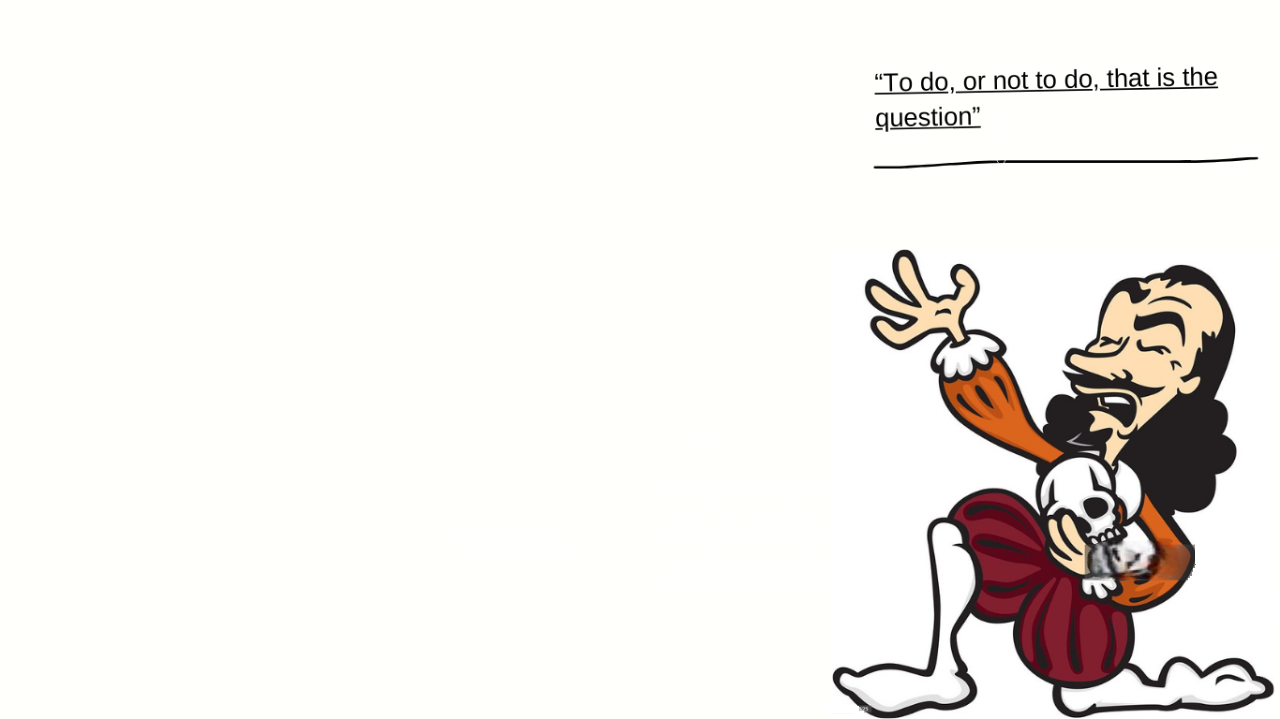
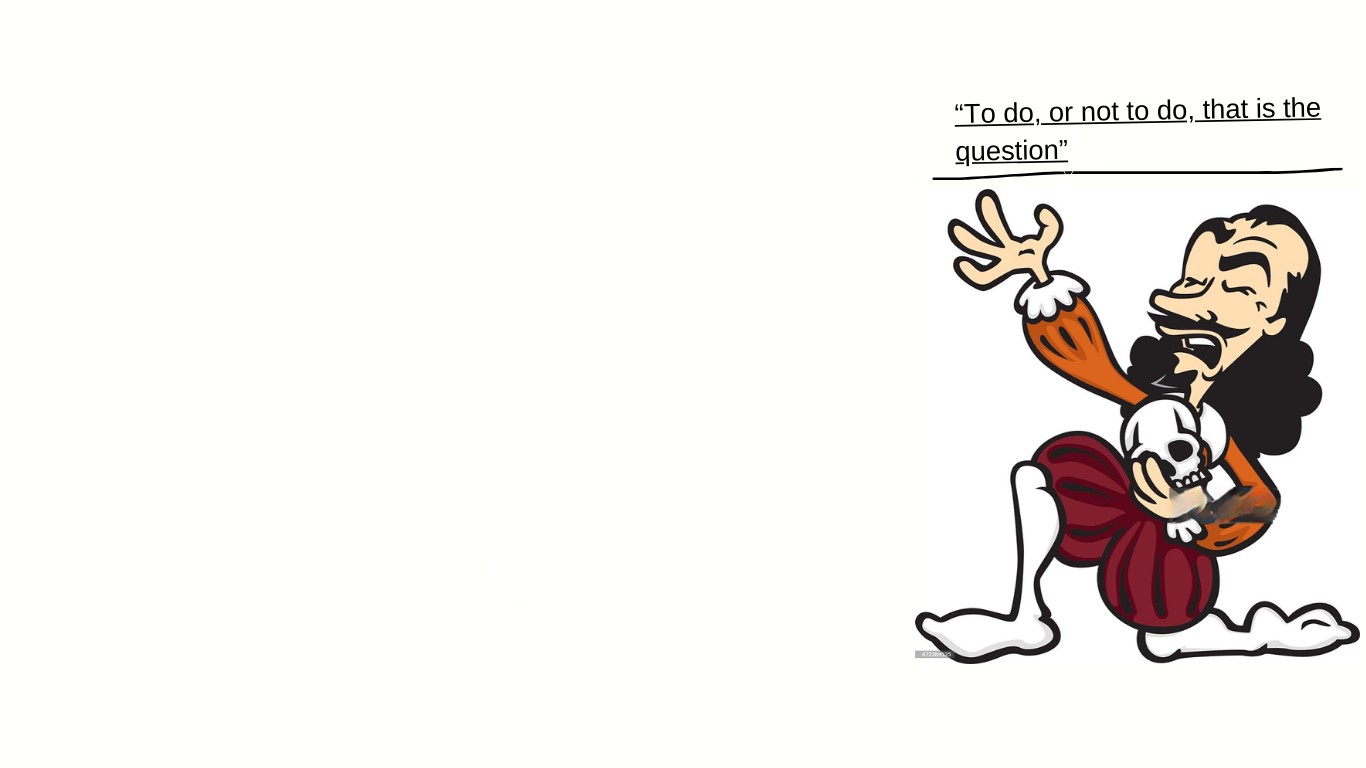
styling edits

Changed region(s): [[0.625, 0.2448, 1.0, 1.0], [0.6875, 0.0918, 0.9688, 0.2142]]

diff --git a/src/index.css b/src/index.css
@@ -1,20 +1,51 @@
 body {
-  background-image: url('imgs/shakespeare.png');
-  background-size: cover;
-  background-color: #f0f0f0;
-  color: #ed5544; /* Single text color */
   font-family: 'Roboto', sans-serif;
+  color: #ed5544;
+  margin: 0;
+  padding: 0;
+  
+}
+
+.container {
+  display: flex; 
+  justify-content: space-between; 
+  align-items: flex-start; 
+  width: 80%; 
+  margin: 20px auto; 
+}
+
+.todo-section {
+  flex: 1; 
+  padding: 10px;
+  background-color: rgba(255, 255, 255, 0.9); 
+  border-radius: 10px; 
+}
+
+.image-section {
+  flex: 0.5; 
   display: flex;
-  justify-content: center;
-  align-items: center;
-  font-size: larger;
-  padding: 50px;
+  justify-content: center; 
+  align-items: center; 
+  padding: 20px;
+}
+
+.image-section img {
+  max-width: 100%; 
+  height: auto; 
+  border-radius: 10px;
+}
+
+.button-container {
+  display: flex;
+  justify-content: flex-end; /* Butonları sağa hizalar */
+  gap: 10px;
+  margin-top: 20px;
 }
 
 h1 {
   color: #ff5722;
-  font-size: 2rem;
-  margin: 20px;
+  font-size: 2.5rem;
+  margin: 20px 0;
   font-family: fantasy;
 }
 
@@ -28,19 +59,40 @@ h1 {
 button {
   background-color: #ee8175;
   color: white;
-  padding: 3px 20px;
+  padding: 10px 20px;
   border: none;
   border-radius: 20px;
   cursor: pointer;
+  font-size: 1rem;
 }
 
-/* Responsive design */
+.footer {
+  
+  color: rgb(143, 117, 117);
+  text-align: center;
+  padding: 10px; 
+  
+  width: 100%;
+}
+
+.footer p {
+  margin: 0; /* Removes default margin */
+}
+
 @media only screen and (max-width: 600px) {
+  .container {
+    flex-direction: column; 
+  }
+
+  .image-section {
+    margin-top: 20px; 
+  }
+
   h1 {
-    font-size: 1.5rem; /* Reduced font size for small screens */
+    font-size: 1.5rem; 
   }
 
   .inputField {
-    width: 100%;
+    width: 100%; 
   }
 }

diff --git a/src/App.jsx b/src/App.jsx
@@ -75,19 +75,31 @@ function App() {
         <Route 
           path="/" 
           element={
-            <div>
-              <h1>Todo List</h1>
-              <button onClick={() => setSortAsc(!sortAsc)}>
-                Sort {sortAsc ? 'Descending' : 'Ascending'}
-              </button>
-              <AddTodoForm onAddTodo={addTodo} />
-              {isLoading ? <p>Loading...</p> : <TodoList todoList={todoList} onRemoveTodo={removeTodo} />}
+            <div className="container">
+              <section className="todo-section">
+                <h1>Todo List</h1>
+                <div className="button-container">
+                  <button onClick={() => setSortAsc(!sortAsc)}>
+                    Sort {sortAsc ? 'Descending' : 'Ascending'}
+                  </button>
+                </div>
+                <AddTodoForm onAddTodo={addTodo} />
+                {isLoading ? <p>Loading...</p> : <TodoList todoList={todoList} onRemoveTodo={removeTodo} />}
+              </section>
+              <section className="image-section">
+              
+                <img src="/src/imgs/shakespeare4.png" alt="shakespeare" />
+              </section>
             </div>
           }
         />
         <Route path="/new" element={<h1>New Todo List</h1>} />
       </Routes>
+      <footer className="footer">
+        <p>&copy; 2024 Murat Simsek TodoList Project</p>
+      </footer>
     </BrowserRouter>
+    
   );
 }
 

diff --git a/src/components/TodoListItem.module.css b/src/components/TodoListItem.module.css
@@ -1,0 +1,20 @@
+.ListItem {
+    display: flex;
+    justify-content: space-between; 
+    align-items: center; 
+    padding: 10px;
+    border-bottom: 1px solid #ccc; 
+  }
+  
+  button {
+    margin-left: auto; 
+    background-color: #f00; 
+    border: none;
+    padding: 5px 10px;
+    cursor: pointer;
+  }
+  
+  button:hover {
+    background-color: #c00; 
+  }
+  

diff --git a/src/components/TodoList.jsx b/src/components/TodoList.jsx
@@ -2,6 +2,7 @@
 import React from 'react';
 import TodolistItem from './TodoListItem';
 import PropTypes from 'prop-types';
+import styles from "./TodoListItem.module.css";
 
 
 

diff --git a/src/components/AddTodoForm.jsx b/src/components/AddTodoForm.jsx
@@ -36,7 +36,7 @@ function AddTodoForm({onAddTodo}) {
   );
 }
 //
-AddTodoForm.PropTypes = {
+AddTodoForm.propTypes = {
   onAddTodo: PropTypes.func.isRequired,
 };
 
